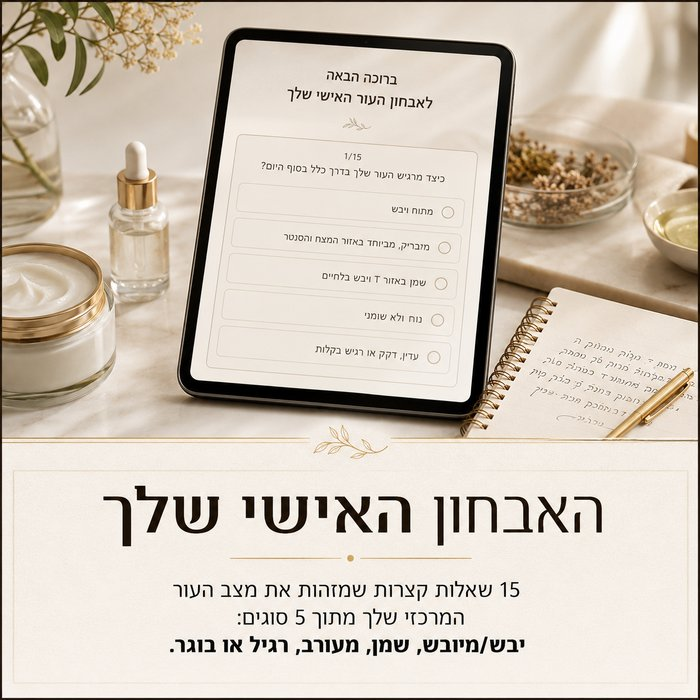
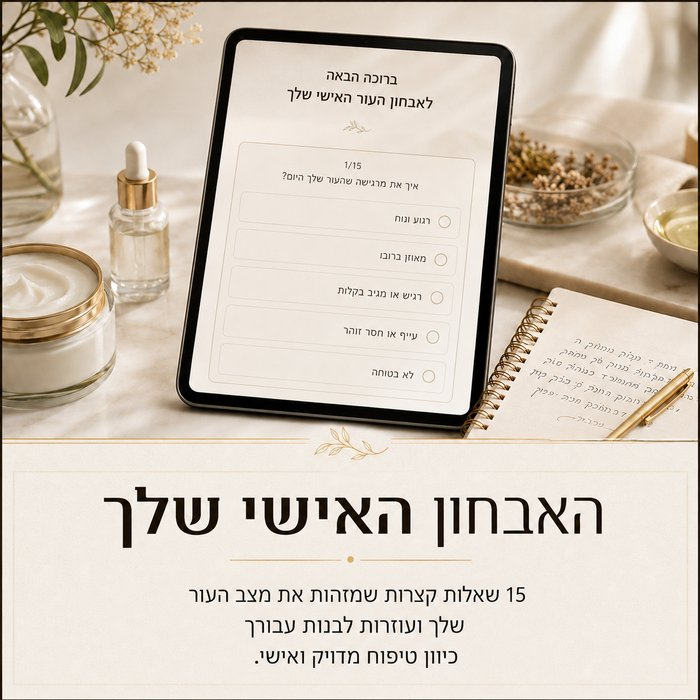
Sales page: image-only what-you-get tiles, updated diagnosis+guide images, drop '5 types' phrasing

diff --git a/קוד-העור-רישום.html b/קוד-העור-רישום.html
@@ -197,7 +197,7 @@
     <p class="no">לא עוד ניחושים.</p>
     <p class="no">לא עוד מוצר שנכנס למגירה כי הוא נשמע מבטיח.</p>
     <p class="no">לא עוד שגרה שנבנית לפי המלצות כלליות שלא בהכרח מתאימות לך.</p>
-    <p class="bridge">קוד העור מתחיל באבחון אישי קצר שמזהה את מצב העור המרכזי שלך מתוך 5 סוגים — ואז פותח לך מסלול טיפוח שמתאים לתוצאה שלך. בסוף התהליך תדעי הרבה יותר ברור:</p>
+    <p class="bridge">קוד העור מתחיל באבחון אישי קצר שמזהה את מצב העור המרכזי שלך — ואז פותח לך מסלול טיפוח שמתאים לתוצאה שלך. בסוף התהליך תדעי הרבה יותר ברור:</p>
     <ul class="outcomes">
       <li>איזה פרופיל עור קיבלת</li>
       <li>על מה כדאי להתמקד</li>
@@ -217,31 +217,24 @@
     <div class="getgrid">
       <div class="getcard">
         <img src="https://yalihod-ai.github.io/kod-haor/kh-get-01.jpg" alt="האבחון האישי שלך" loading="lazy">
-        <div class="getbody"><h3>האבחון האישי שלך</h3><p>15 שאלות קצרות שמזהות את מצב העור המרכזי שלך מתוך 5 סוגים: יבש/מיובש, שמן, מעורב, רגיל או בוגר.</p></div>
       </div>
       <div class="getcard">
         <img src="https://yalihod-ai.github.io/kod-haor/kh-get-02.jpg" alt="פרופיל העור שלך" loading="lazy">
-        <div class="getbody"><h3>פרופיל העור שלך</h3><p>תמונת מצב ברורה שמסבירה מה מאפיין את העור שלך, מה הוא כנראה צריך עכשיו, על מה להתמקד וממה כדאי להיזהר.</p></div>
       </div>
       <div class="getcard">
         <img src="https://yalihod-ai.github.io/kod-haor/kh-get-03.jpg" alt="מסלול הטיפוח שלך" loading="lazy">
-        <div class="getbody"><h3>מסלול הטיפוח שלך</h3><p>שגרת טיפוח מותאמת לפי תוצאת האבחון שלך — כולל סוגי מוצרים, סדר טיפוח, דגשים יומיים והמלצות שימוש.</p></div>
       </div>
       <div class="getcard">
         <img src="https://yalihod-ai.github.io/kod-haor/kh-get-04.jpg" alt="חומרי הגלם שמתאימים לך" loading="lazy">
-        <div class="getbody"><h3>חומרי הגלם שמתאימים לך</h3><p>רשימת חומרי גלם מומלצים לפי מצב העור שלך, כדי שתדעי מה לחפש, מה להכין ומה באמת רלוונטי לשגרה שלך.</p></div>
       </div>
       <div class="getcard">
         <img src="https://yalihod-ai.github.io/kod-haor/kh-get-05.jpg" alt="המדריך האישי שלך" loading="lazy">
-        <div class="getbody"><h3>המדריך האישי שלך</h3><p>PDF מסודר להורדה עם הסבר על סוג העור שלך, שגרת טיפוח, דגשים, חומרי גלם ומתכונים מומלצים.</p></div>
       </div>
       <div class="getcard">
         <img src="https://yalihod-ai.github.io/kod-haor/kh-get-06.jpg" alt="מפת סינון המגירה" loading="lazy">
-        <div class="getbody"><h3>מפת סינון המגירה</h3><p>דף עבודה שיעזור לך לעבור על מוצרי הטיפוח שכבר יש לך בבית, להבין מה עדיין מתאים למסלול שלך, מה כפול או מיותר, ומה אפשר להחליף במתכון טבעי מדויק יותר.</p></div>
       </div>
       <div class="getcard">
         <img src="https://yalihod-ai.github.io/kod-haor/kh-get-07.jpg" alt="שיעור וידאו: להבין את העור" loading="lazy">
-        <div class="getbody"><h3>שיעור וידאו: להבין את העור</h3><p>שיעור וידאו קצר וברור שיעזור לך להבין את מבנה העור, סוגי העור והבסיס שמאחורי הבחירות הנכונות בטיפוח.</p></div>
       </div>
     </div>
   </div>
